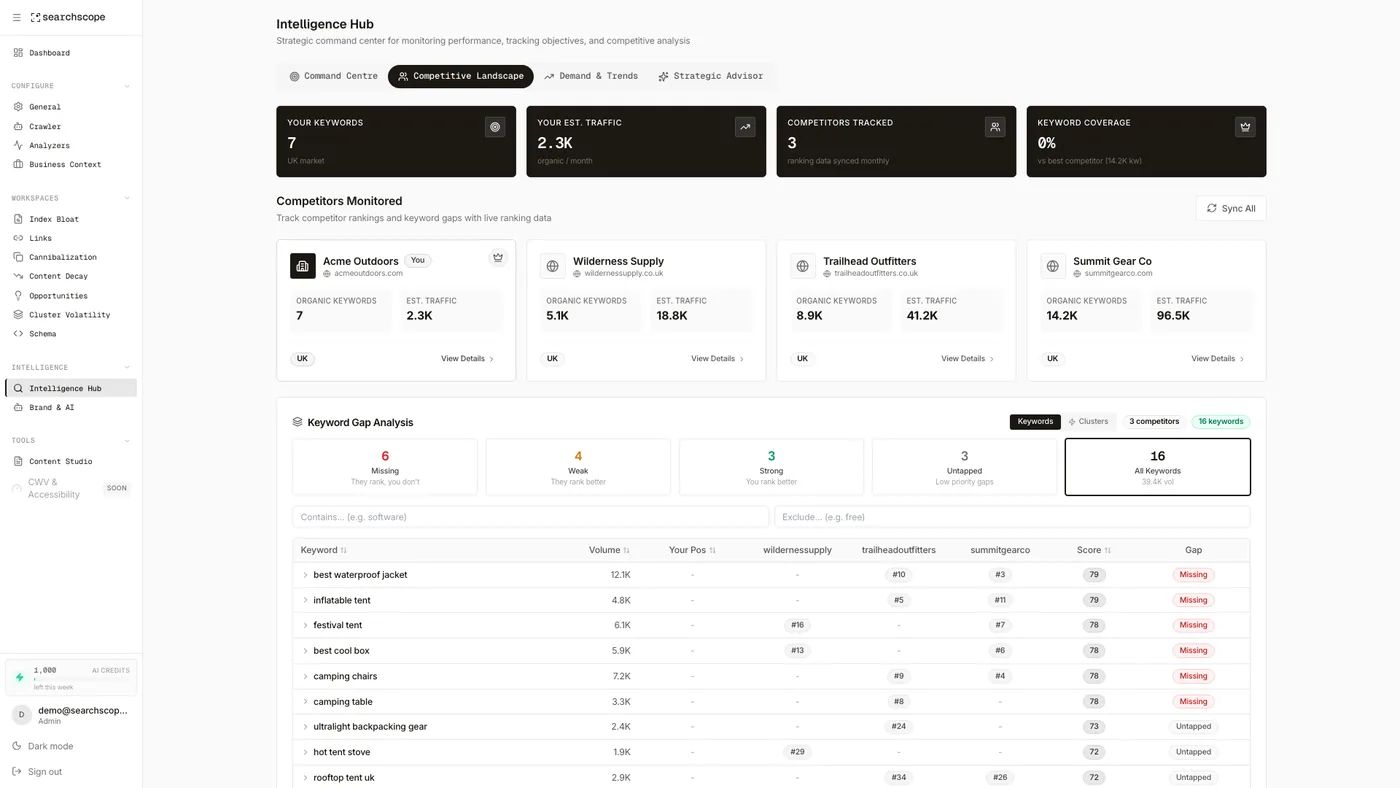
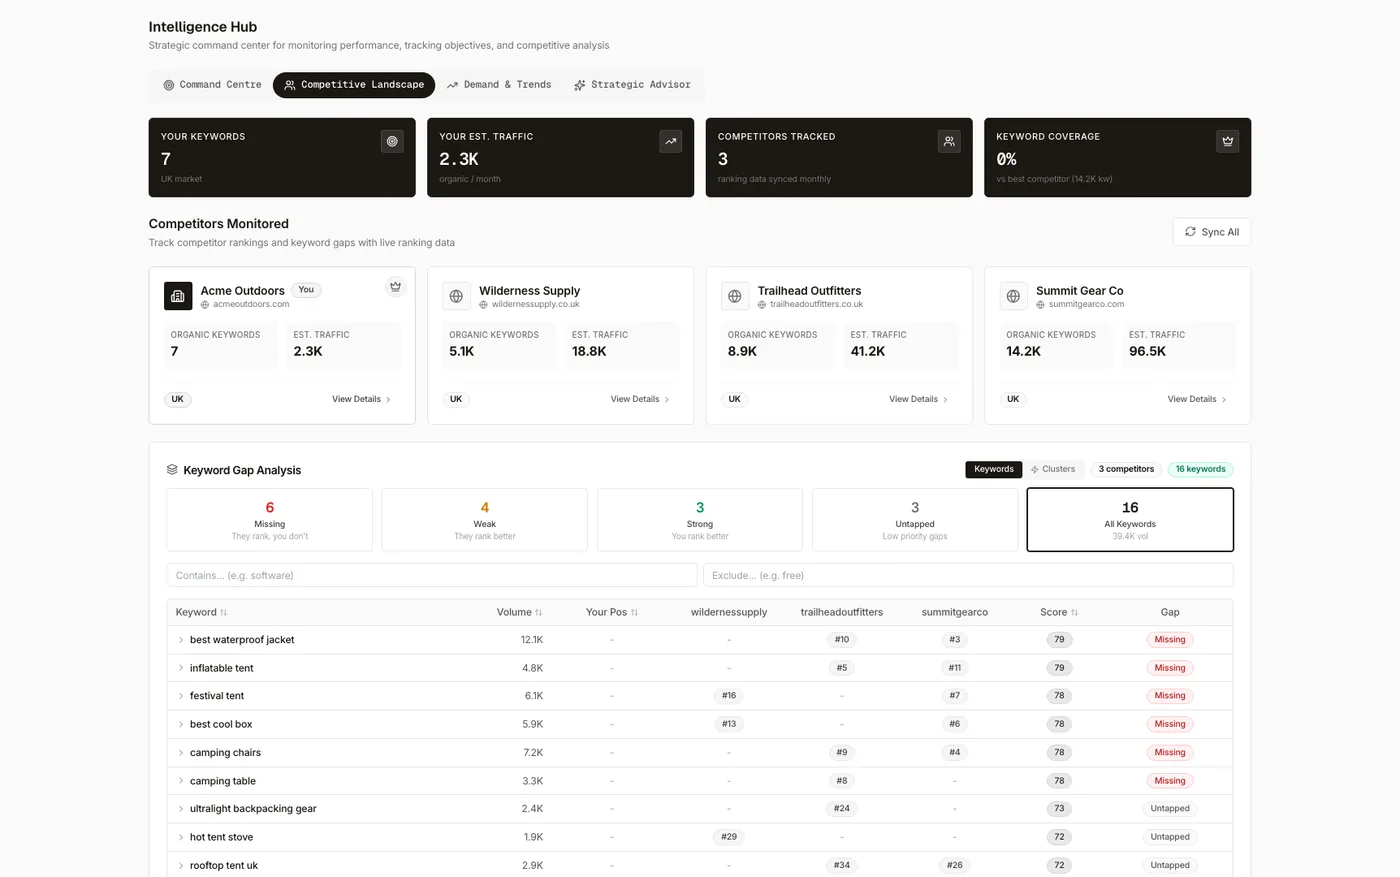
Crop the app sidebar out of the four tool screenshots
The left nav was about a tenth of every image and carried nothing the page
is talking about. Cropped from x=196, where the sidebar hairline sits, so
the content now fills the frame at the size the page renders it.

Side effect worth having: the cropped images are 1728x1080, which is 16:10,
the same ratio the CSS asks for. The uncropped 16:9 versions were being
cropped again by object-fit on the way in. Width and height attributes
updated to 1400x877 to match, so nothing shifts while they load.

diff --git a/holding/platform/search-intelligence/index.html b/holding/platform/search-intelligence/index.html
@@ -1335,22 +1335,22 @@ height="0" width="0" style="display:none;visibility:hidden"></iframe></noscript>
         <div class="tabpanel" role="tabpanel" id="panel-command-center" aria-labelledby="tab-command-center" hidden>
           <h3 class="tabpanel__t">Command Center</h3>
           <p class="tabpanel__d">All of your search data in one report, rather than four exports and a spreadsheet. Trend lines and headline numbers, the queries and pages tables, and a drilldown from any landing page into the queries that reached it.</p><p class="tabpanel__d">Brand and non-brand are split, device and country filter, and every view compares against the period before it.</p><p class="tabpanel__d">The Impact Tracking tab draws the changes you have applied onto the traffic curve, so you can see whether the work moved anything.</p>
-          <img class="tabpanel__shot" src="/brand/intelligence/command-center.webp" alt="The Command Center in Searchscope: clicks, impressions, CTR and average position against the previous period, with a performance trend and a brand versus non-brand split" width="1400" height="788" loading="lazy" decoding="async">
+          <img class="tabpanel__shot" src="/brand/intelligence/command-center.webp" alt="The Command Center in Searchscope: clicks, impressions, CTR and average position against the previous period, with a performance trend and a brand versus non-brand split" width="1400" height="877" loading="lazy" decoding="async">
         </div>
         <div class="tabpanel" role="tabpanel" id="panel-competitive-landscape" aria-labelledby="tab-competitive-landscape" hidden>
           <h3 class="tabpanel__t">Competitive Landscape</h3>
           <p class="tabpanel__d">Track the domains ranking beside you, then see the keywords they hold and you do not. Every keyword is sorted into missing, weak, strong and untapped, grouped by topic and scored for opportunity, with a CSV out and a handoff into <b>Content Studio</b> or the <b>Strategic Advisor</b>.</p>
-          <img class="tabpanel__shot" src="/brand/intelligence/competitive-landscape.webp" alt="Competitive Landscape in Searchscope: tracked competitor domains with their keyword counts, and a keyword gap table sorted into missing, weak, strong and untapped" width="1400" height="788" loading="lazy" decoding="async">
+          <img class="tabpanel__shot" src="/brand/intelligence/competitive-landscape.webp" alt="Competitive Landscape in Searchscope: tracked competitor domains with their keyword counts, and a keyword gap table sorted into missing, weak, strong and untapped" width="1400" height="877" loading="lazy" decoding="async">
         </div>
         <div class="tabpanel" role="tabpanel" id="panel-demand-trends" aria-labelledby="tab-demand-trends" hidden>
           <h3 class="tabpanel__t">Demand and Trends</h3>
           <p class="tabpanel__d">Search volume from outside your account, rolled onto the clusters you already rank for. Each cluster carries its monthly demand, the direction of travel across the last quarter, and your capture rate: how much of that demand actually turns into your clicks.</p><p class="tabpanel__d">The gap between those two is the ranking. It also names the page carrying the cluster, the pages competing with it, and the queries you are cannibalizing. Demand data is monthly, so this reads quarter by quarter rather than day by day, and it switches on once your first analysis has built your clusters.</p>
-          <img class="tabpanel__shot" src="/brand/intelligence/demand-and-trends.webp" alt="Demand and Trends in Searchscope: demand plotted against your position, with cluster cards showing monthly searches, demand and visibility direction, and capture rate" width="1400" height="788" loading="lazy" decoding="async">
+          <img class="tabpanel__shot" src="/brand/intelligence/demand-and-trends.webp" alt="Demand and Trends in Searchscope: demand plotted against your position, with cluster cards showing monthly searches, demand and visibility direction, and capture rate" width="1400" height="877" loading="lazy" decoding="async">
         </div>
         <div class="tabpanel" role="tabpanel" id="panel-strategic-advisor" aria-labelledby="tab-strategic-advisor" hidden>
           <h3 class="tabpanel__t">Strategic Advisor</h3>
           <p class="tabpanel__d">A powerful AI advisor that&rsquo;s connected to your data.</p><p class="tabpanel__d">Ask it why a cluster turned, what a rival is doing differently, or what to do first next quarter, and it can pull your search history, your analyzer findings, the competitive gap, demand, AI visibility and PR activity, showing you the steps it took to get there.</p><p class="tabpanel__d">It can search the open web when the answer isn&rsquo;t in your data. You can set objectives and it tracks progress against them, and anything worth writing goes into <b>Content Studio</b> as a brief.</p>
-          <img class="tabpanel__shot" src="/brand/intelligence/strategic-advisor.webp" alt="The Strategic Advisor in Searchscope: an AI advisor with surfaced opportunities, tracked objectives and their progress, and suggested prompts" width="1400" height="788" loading="lazy" decoding="async">
+          <img class="tabpanel__shot" src="/brand/intelligence/strategic-advisor.webp" alt="The Strategic Advisor in Searchscope: an AI advisor with surfaced opportunities, tracked objectives and their progress, and suggested prompts" width="1400" height="877" loading="lazy" decoding="async">
         </div>
         </div>
       </div>
